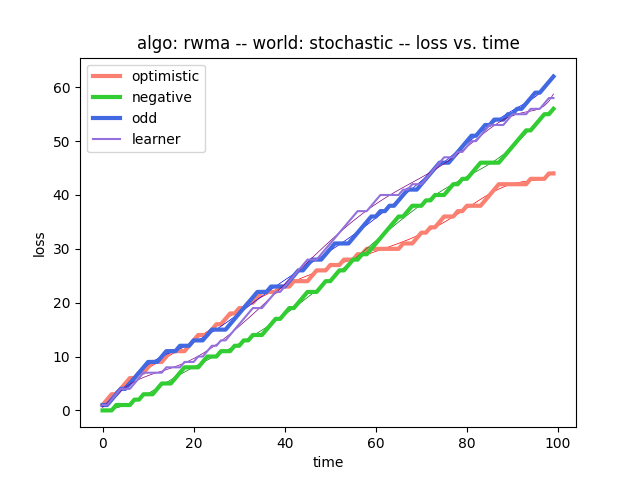
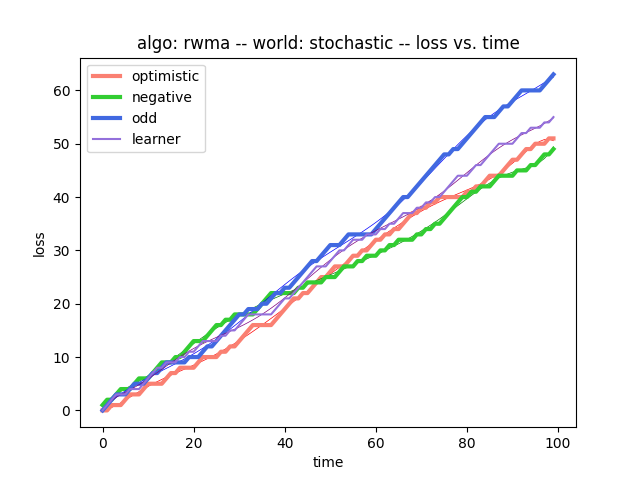
started: prob3/5

diff --git a/hw1/environment.py b/hw1/environment.py
@@ -10,12 +10,22 @@ import numpy as np
 import random
 
 from enum import IntEnum
-from typing import List
+from typing import List, Tuple
 
 
 class Prediction(IntEnum):
     LOSE = -1
     WIN = 1
+
+
+class Weather(IntEnum):
+    SUNNY = 0
+    RAINY = 1
+
+
+class Game(IntEnum):
+    HOME = 0
+    AWAY = 1
 
 # ------------------------------------------------------------------------------
 # Expert implementation
@@ -33,10 +43,11 @@ class Expert():
         self._predictions = predictions
         self._prediction_list = list(map(int, predictions))
 
-    def give_advice(self, num_game: int) -> int:
+    def give_advice(self, num_game: int, observations: dict = None) -> int:
         """ Base method to implement the advice rule.
         Args:
             num_game: number of current game played.
+            observations: world observations; not all experts can use it.
         Return:
             advice: output generated by the expert.
         """
@@ -53,23 +64,56 @@ class Expert():
 class OptimisticExpert(Expert):
     """ Optimistic expert: it always predicts WIN. """
 
-    def give_advice(self, num_game: int) -> int:
+    def give_advice(self, num_game: int, observations: dict = None) -> int:
         return self._predictions.WIN.value
 
 
 class NegativeExpert(Expert):
     """ Negative expert: it always predicts LOSE """
 
-    def give_advice(self, num_game: int) -> int:
+    def give_advice(self, num_game: int, observations: dict = None) -> int:
         return self._predictions.LOSE.value
 
 
 class OddLoseExpert(Expert):
     """ Odd Lose expert: predicts LOSE every odd game."""
 
-    def give_advice(self, num_game: int) -> int:
+    def give_advice(self, num_game: int, observations: dict = None) -> int:
         if num_game % 2 == 0:
             return Prediction.WIN.value
+        return Prediction.LOSE.value
+
+
+class WeatherExpert(Expert):
+    """ Weather expert: predicts WIN when the weather is sunny. """
+
+    def give_advice(self, num_game: int, observations: dict = None) -> int:
+        if "weather" in observations:
+            weather = observations["weather"]
+            if weather == Weather.SUNNY:
+                return Prediction.WIN.value
+        return Prediction.LOSE.value
+
+
+class GameExpert(Expert):
+    """ Game expert: predicts WIN if home game. """
+
+    def give_advice(self, num_game: int, observations: dict = None) -> int:
+        if "game" in observations:
+            game = observations["game"]
+            if game == Game.HOME:
+                return Prediction.WIN.value
+        return Prediction.LOSE.value
+
+
+class WinStreakExpert(Expert):
+    """ Win Streak expert: predicts WIN based on consecutive wins. """
+
+    def give_advice(self, num_game: int, observations: dict = None) -> int:
+        if "win_streak" in observations:
+            win_streaks = observations["win_streak"]
+            if win_streaks > 2:
+                return Prediction.WIN.value
         return Prediction.LOSE.value
 
 # ------------------------------------------------------------------------------
@@ -87,11 +131,23 @@ class World():
         """
         self._name = name
         self._labels = labels
+        self._weather_list = list(map(int, Weather))
+        self._game_list = list(map(int, Game))
+        self._win_streaks = 0
+        self._label = -1
+        self._observations = {
+            "weather": 0, "game": 0, "win_streak": 0
+        }
 
-    def give_label(self, 
-                   expert_advice: np.array = None, 
-                   expert_weights: np.array = None
-        ) -> int:
+    def generate_observations(self) -> None:
+        """ Generates observations for the current state. """
+        self._observations["weather"] = np.random.choice(self._weather_list)
+        self._observations["game"] = np.random.choice(self._game_list)
+
+    def step(self,
+             expert_advice: np.array = None,
+             expert_weights: np.array = None
+             ) -> Tuple[int, dict]:
         """ Implements the world system to provide a label. 
         Args
         ----
@@ -109,10 +165,18 @@ class StochasticWorld(World):
         advice. 
     """
 
-    def give_label(self, 
-                   expert_advice: np.array = None, 
-                   expert_weights: np.array = None) -> int:
-        return random.choice(self._labels)
+    def step(self,
+             expert_advice: np.array = None,
+             expert_weights: np.array = None
+             ) -> Tuple[int, dict]:
+        self.generate_observations()
+        self._label = random.choice(self._labels)
+        if self._label == Prediction.LOSE.value:
+            self._win_streaks = 0
+        else:
+            self._win_streaks += 1
+        self._observations["win_streak"] = self._win_streaks
+        return self._label, self._observations
 
 
 class DeterministicWorld(World):
@@ -121,22 +185,44 @@ class DeterministicWorld(World):
         rule to provide labels. 
     """
 
-    def give_label(self, 
-                   expert_advice: np.array = None, 
-                   expert_weights: np.array = None
-        ) -> int:
+    def step(self,
+             expert_advice: np.array = None,
+             expert_weights: np.array = None
+             ) -> Tuple[int, dict]:
         """ Uses a deterministic rule to produce a label. """
-        return self.rule_counter(expert_advice)
-    
-    def rule_counter(self, expert_advice):
+        self.generate_observations()
+        self._label = self.rule()
+        # self._label = self.rule_counter()
+
+        if self._label == Prediction.LOSE.value:
+            self._win_streaks = 0
+        else:
+            self._win_streaks += 1
+
+        self._observations["win_streak"] = self._win_streaks
+        return self._label, self._observations
+
+    def rule(self) -> int:
+        """ Produces label based on observations """
+        weather = self._observations["weather"]
+        game = self._observations["game"]
+        win_streak = self._observations["win_streak"]
+        # Since this world is deterministic, rules are simple if-elses
+        if weather == Weather.RAINY.value:
+            if win_streak > 2 and game == Game.HOME.value:
+                return Prediction.WIN.value
+            return Prediction.LOSE.value
+        else:
+            if win_streak < 2 and game == Game.AWAY.value:
+                return Prediction.LOSE
+        return Prediction.WIN.value
+
+    def rule_counter(self) -> int:
+        """ Used in 3.2, 3.3 and 3.4 """
         label = -1 if self._counter % 4 == 0 else 1
         self._counter += 1
         return label
-    
-    def rule_opposite(self, expert_advice):
-        """ Produces opposite label to that produced by the OddLose expert. """
-        return -1 if expert_advice[-1] == 1 else 1
-    
+
     def set_counter(self):
         self._counter = 0
 
@@ -146,26 +232,32 @@ class AdversarialWorld(World):
         able to adjust its label. 
     """
 
-    def give_label(self, 
-                   expert_advice: np.array = None, 
-                   expert_weights: np.array = None
-        ) -> int:
+    def step(self,
+             expert_advice: np.array = None,
+             expert_weights: np.array = None
+        ) -> Tuple[int, dict]:
         """ 
         Adversarial predicts a label based on the expert advice, expert weights
         and prediction rule. For WMA it produces the opposite label to that of 
         the majority of the experts. For RWMA it produces a label based on the 
         current weights of the experts. 
         """
-        values, counts = np.unique(expert_advice, return_counts=True)
         if self._strategy == "wma":
-            index = np.argmax(counts)
-            return -1 if values[index] == 1 else 1
+            # values, counts = np.unique(expert_advice, return_counts=True)
+            # index = np.argmax(counts)
+            # return -1 if values[index] == 1 else 1
+            self._label = -1 if np.dot(expert_advice,
+                                       expert_weights) > 0 else 1
         elif self._strategy == "rwma":
             # w = counts / np.sum(counts)
             # choice = np.random.multinomial(1, w)
-            w = expert_weights / np.sum(expert_weights)
-            index = np.argmin(w)
-            return expert_advice[index]
+            # w = expert_weights / np.sum(expert_weights)
+            # index = np.argmin(w)
+            # return expert_advice[index]
+            self._label = -1 if np.dot(expert_advice,
+                                       expert_weights) > 0 else 1
+        observations = self.generate_observations()
+        return self._label, observations
 
     # Member setters
     def set_strategy(self, strategy: str):

diff --git a/hw1/run.py b/hw1/run.py
@@ -7,18 +7,19 @@ from rwma import RandomizedWeightedMajorityAlgorithm
 
 from environment import (
     StochasticWorld, DeterministicWorld, AdversarialWorld,
-    OddLoseExpert, OptimisticExpert, NegativeExpert
+    OddLoseExpert, OptimisticExpert, NegativeExpert,
+    WeatherExpert, GameExpert, WinStreakExpert
 )
 
 SUPPORTED_WORLDS = ["stochastic", "deterministic", "adversarial"]
 SUPPORTED_ALGORITHMS = ["wma", "rwma"]
-if not os.path.exists("out"):
-    os.makedirs("out")
 
 def plot(x, y1, y1_label, y2=None, y2_label=None, 
          out_file="out.png", title = 'plot', x_axis = 'x', y_axis = 'y'):
-    colors  = ['salmon', 'limegreen', 'royalblue', 'mediumpurple']
-    icolors = ['red', 'green', 'blue', 'purple']
+    colors  = ['salmon', 'limegreen', 'royalblue', 'mediumpurple', 'orchid', 
+               'sandybrown', 'dimgrey']
+    icolors = ['red', 'green', 'blue', 'purple', 'fuchsia', 'saddlebrown', 
+               'black']
 
     for n in range(len(y1[1])):
         # interpolate to smooth out
@@ -32,7 +33,7 @@ def plot(x, y1, y1_label, y2=None, y2_label=None,
             poly = np.polyfit(x, y2[:, n], 10)
             poly_y = np.poly1d(poly)(x)
             plt.plot(x, poly_y, color=icolors[-1+n], linewidth=0.5)
-            plt.plot(x, y2[:, n], color=colors[-1+n], label=y2_label[n])
+            plt.plot(x, y2[:, n], color=colors[-1+n], label=y2_label[n], linewidth=3)
     
     plt.xlabel(x_axis)
     plt.ylabel(y_axis)
@@ -45,11 +46,17 @@ def plot(x, y1, y1_label, y2=None, y2_label=None,
     plt.close()
     
 def run(args):
+    if not os.path.exists(args.dir):
+        os.makedirs(args.dir)
+    
     # Hypothesis
     H = [
         OptimisticExpert("optimistic"), 
         NegativeExpert("negative"), 
-        OddLoseExpert("odd")
+        OddLoseExpert("odd"),
+        WeatherExpert("weather"),
+        GameExpert("game"),
+        WinStreakExpert("winstreak")
     ]
     print("Hypothesis created with experts:")
     expert_names = []
@@ -85,13 +92,13 @@ def run(args):
         plot(t, 
             y1=expert_losses, y1_label=expert_names, 
             y2=learner_loss, y2_label=["learner"],
-            out_file=f"out/loss_{args.algo}_{args.world}.png",
+            out_file=f"{args.dir}/loss_{args.algo}_{args.world}.png",
             title=f"algo: {args.algo} -- world: {args.world} -- loss vs. time", 
             x_axis='time', y_axis='loss')
         
         plot(t, 
             y1=regret, y1_label=["regret"], 
-            out_file=f"out/regret_{args.algo}_{args.world}.png",
+            out_file=f"{args.dir}/regret_{args.algo}_{args.world}.png",
             title=f"algo: {args.algo} -- world: {args.world} -- regret vs. time", 
             x_axis='time', y_axis='regret')
     
@@ -110,6 +117,7 @@ if __name__ == "__main__":
                         help='time steps')
     parser.add_argument('--eta', type=float, default=0.5, 
                         help='penalty value')
+    parser.add_argument('--dir', type=str, default="out_3-5")
     parser.add_argument('--plot', action='store_true')
     args = parser.parse_args()
     

diff --git a/hw1/wma.py b/hw1/wma.py
@@ -19,7 +19,7 @@ np.set_printoptions(4)
 
 class WeightedMajorityAlgorithm(object):
 
-    def __init__(self, H, world, T: int = 10, eta: float = 0.5):
+    def __init__(self, H, world, T: int = 10, eta: float = 0.5, ckpt_step: int = 5):
         """ Initializes the WMA.
         Args
             H: hypothesis class
@@ -32,6 +32,7 @@ class WeightedMajorityAlgorithm(object):
         self._T = T
         self._eta = eta
         self._world = world
+        self._ckpt_step = 1
         self.build()
 
     def build(self) -> None:
@@ -43,19 +44,19 @@ class WeightedMajorityAlgorithm(object):
         self._experts_loss = np.zeros(
             shape=(self._T, self._num_experts), dtype=np.float32)
 
-    def receive_advice(self, num_step: int) -> None:
+    def receive_advice(self, num_step: int, observations: dict) -> None:
         """ Receives the advice from all the experts
         Args
             num_step: current time step.
         """
         for n in range(self._num_experts):
-            self._x[n] = self._H[n].give_advice(num_step)
+            self._x[n] = self._H[n].give_advice(num_step, observations)
 
     def receive_label(self) -> int:
         """ Receives true label from the world. """
         # note: if using stochastic, neither the expert advice nor the weights
         # are used by the world.
-        return self._world.give_label(self._x, self._weights)
+        return self._world.step(self._x, self._weights)
 
     def pred_function(self) -> int:
         """ Prediction rule. In the case of the Weighted Majority algorithm it 
@@ -84,16 +85,18 @@ class WeightedMajorityAlgorithm(object):
         print(f"\tInitial weights: {self._weights}")
         print(f"\tWorld: {self._world.get_name()}")
         for t in range(0, self._T):
-            self.receive_advice(t)
+            self._y_true, obs = self.receive_label()
+            self.receive_advice(t, obs)
             self._y_pred = self.pred_function()
-            self._y_true = self.receive_label()
             incorrect_advice = (self._y_true != self._x).astype(int)
             self._weights = self._weights * (1 - self._eta * incorrect_advice)
             self.compute_regret(t)
                         
-            if t % 5 == 0:
-                print("\t[{}/{}]\n\t\tadvice: {}, y_pred: {}, y_true: {}".format(
-                    t, self._T, self._x, self._y_pred, self._y_true))
+            if (t+1) % self._ckpt_step == 0:
+                print(f"\t[{t+1}/{self._T}]")
+                print("\t\tworld: weather: {} game: {} win streak: {} label: {}".format(
+                    obs["weather"], obs["game"], obs["win_streak"], self._y_true))
+                print(f"\t\tadvice: {self._x}, y_pred: {self._y_pred}")
                 print(f"\t\tincorrect advice: {incorrect_advice}")
                 print(f"\t\tweights: {self._weights}")
                 print(f"\t\tlearner_loss: {self._learner_loss[t]}")

diff --git a/hw1/rwma.py b/hw1/rwma.py
@@ -44,7 +44,7 @@ class RandomizedWeightedMajorityAlgorithm(WeightedMajorityAlgorithm):
             self._weights = self._weights * (1 - self._eta * incorrect_advice)
             self.compute_regret(t)
 
-            if t % 10 == 0:
+            if t % self._ckpt_step == 0:
                 print("\t[{}/{}]\n\t\tadvice: {}, y_pred: {}, y_true: {}".format(
                     t, self._T, self._x, self._y_pred, self._y_true))
                 print(f"\t\tweights: {self._weights}")
